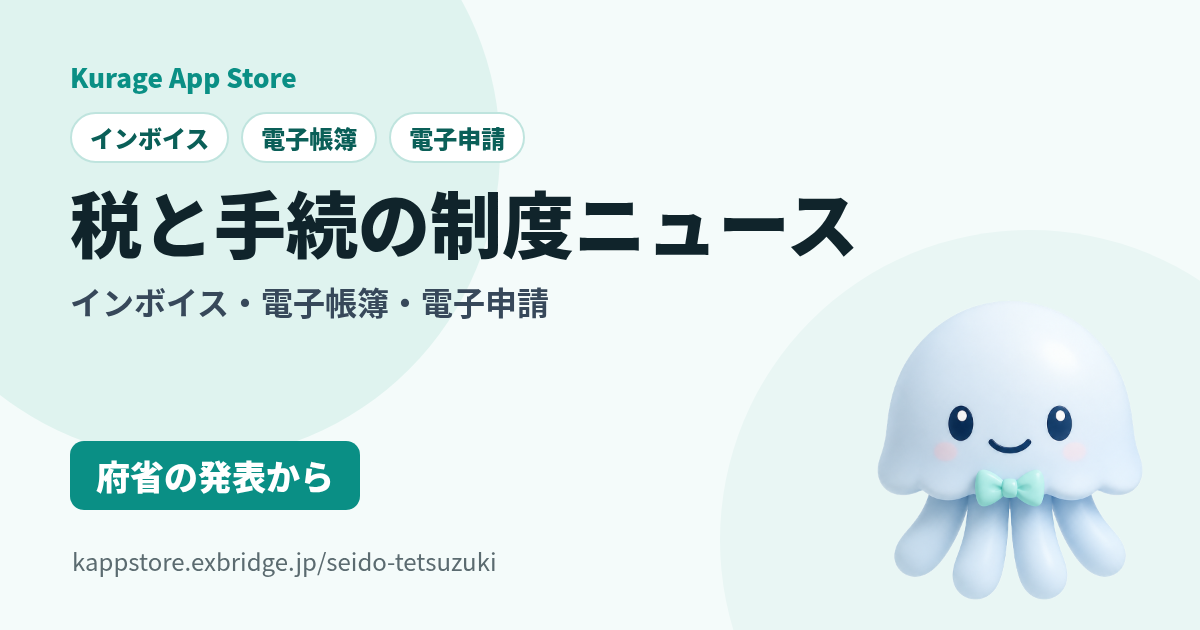
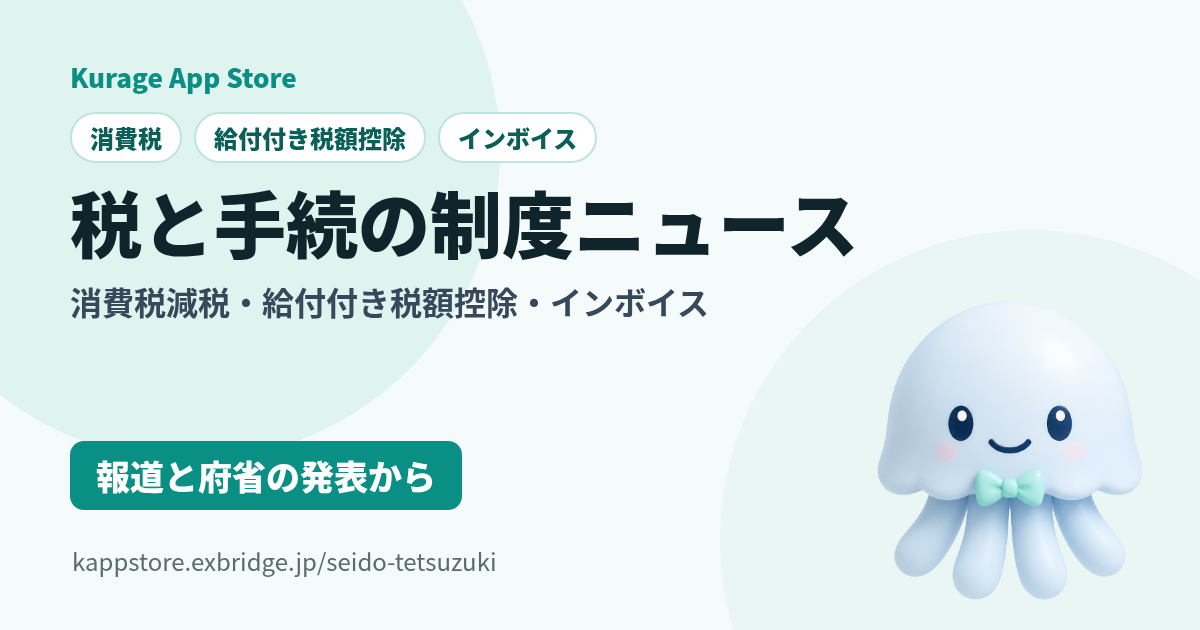
ニュース・制度ニュースに共有ボタン（Xで共有・概要とURLをコピー）、OGP画像に ?v=、労務・税と手続の題名を今のニュースに合わせる

Changed region(s): [[0.0617, 0.1508, 0.4933, 0.2714], [0.0617, 0.4524, 0.5858, 0.5127], [0.0617, 0.6937, 0.4008, 0.8143]]

diff --git a/public/seido.php b/public/seido.php
@@ -13,8 +13,8 @@ kapp_handle_auth_links('seido.php' . ($c !== '' ? '?c=' . rawurlencode($c) : '')
 
 $BASE = 'https://kappstore.exbridge.jp/';
 $CATS = array(
-    'roumu' => array('name' => '労務', 'title' => '労務の制度ニュース｜最低賃金・労働時間・雇用の発表と会社がやること',
-        'lead' => '最低賃金・労働時間・雇用・労働安全衛生など、厚生労働省などの発表のうち会社の労務に関わるものです。',
+    'roumu' => array('name' => '労務', 'title' => '労務の制度ニュース｜最低賃金・年収の壁・労働時間と会社がやること',
+        'lead' => '最低賃金・年収の壁・春闘・育休・労働時間など、会社の労務に関わる報道と、厚生労働省などの発表です。',
         'todo' => array('最低賃金の改定の時期と額を確かめ、時給・月給の最も低い人がそれを下回らないかを見る', '勤怠の記録（出退勤の時刻・残業）を、あとから確かめられる形で残しておく', '指針や公表事案を見て、自社の就業規則・36協定・健康診断の運用と食い違いがないかを確かめる'),
         'apps' => array('0c438fde80e5c346', 'f0f56c6e4da881be', 'b7e010bb0869cbde', 'bb4980bad6219e25')),
     'joho' => array('name' => '情報管理', 'title' => '情報管理の制度ニュース｜不正アクセス・個人情報の注意喚起と会社がやること',
@@ -29,9 +29,9 @@ $CATS = array(
         'lead' => '取適法（旧 下請法）・価格転嫁・取引の適正化についての発表です。',
         'todo' => array('自社が発注側・受注側のどちらで取適法の対象になるかを、資本金と従業員数で確かめる', '発注書（取引条件の明示）・支払期日・手形の扱いが新しい決まりに合っているかを見る', '原材料・人件費の上がった分の価格の交渉を、記録に残る形で行う'),
         'apps' => array('42866a2a798d09eb', '88acc4be142bd444')),
-    'tetsuzuki' => array('name' => '税と手続', 'title' => '税と手続の制度ニュース｜インボイス・電子帳簿・電子申請の発表と会社がやること',
-        'lead' => 'インボイス・電子帳簿保存・電子申請など、会社の税と手続きに関わる発表です。',
-        'todo' => array('請求書・領収書の保存の仕方が、電子帳簿保存法とインボイスの決まりに合っているかを確かめる', '電子申請に要る gBizID などのアカウントを、担当者が変わっても使えるように管理する', '手続きの期限を、制度のカレンダーなどで社内に共有しておく'),
+    'tetsuzuki' => array('name' => '税と手続', 'title' => '税と手続の制度ニュース｜消費税減税・給付付き税額控除・インボイスと会社がやること',
+        'lead' => '消費税減税・給付付き税額控除・インボイス・電子帳簿保存・電子申請など、会社の税と手続きに関わる報道と発表です。',
+        'todo' => array('消費税の税率が変わることが決まったら、レジ・請求書・値札の税率の設定と、切り替える日を確かめる', '請求書・領収書の保存の仕方が、電子帳簿保存法とインボイスの決まりに合っているかを確かめる', '施行日や手続きの期限を、制度のカレンダーなどで社内に共有しておく'),
         'apps' => array('15abb025dc2ee4f6', '5b55bb2c808eead4', 'bb4980bad6219e25')),
 );
 
@@ -92,13 +92,14 @@ $ld = array(
 $ld[] = array('@context' => 'https://schema.org', '@type' => 'FAQPage', 'mainEntity' => array_map(function ($qa) {
     return array('@type' => 'Question', 'name' => $qa[0], 'acceptedAnswer' => array('@type' => 'Answer', 'text' => $qa[1]));
 }, $faq));
-kapp_head($title, $desc, $canonical, false, json_encode($ld, JSON_UNESCAPED_UNICODE | JSON_UNESCAPED_SLASHES), $BASE . 'assets/og/' . $ogslug . '.png');
+kapp_head($title, $desc, $canonical, false, json_encode($ld, JSON_UNESCAPED_UNICODE | JSON_UNESCAPED_SLASHES), $BASE . 'assets/og/' . $ogslug . '.png?v=' . (int)@filemtime(__DIR__ . '/assets/og/' . $ogslug . '.png'));  // 画像を作り直したら URL も変わるように（X は同じ URL のカードを覚えて古いまま出す）
 kapp_header('業務の制度ニュース', $logged_in, $user, $is_seller, $is_admin);
 ?>
 <main class="wrap">
 <section>
   <p style="font-size:12.5px"><a href="index.php">Kurage App Store</a> › <?php echo $c !== '' ? '<a href="seido">業務の制度ニュース</a> › ' . kapp_h($CATS[$c]['name']) : '業務の制度ニュース'; ?></p>
   <h1><?php echo kapp_h($h1); ?></h1>
+  <?php echo kapp_news_share_box('Kurage App Store｜' . $h1, $c !== '' ? $CATS[$c]['lead'] : $desc, $canonical, $c !== '' ? 'seido-' . $c : 'seido'); ?>
   <p style="font-size:15px;line-height:1.85;overflow-wrap:anywhere;margin:0 0 6px"><?php echo kapp_h($answer); ?></p>
   <p class="lead" style="overflow-wrap:anywhere"><?php echo kapp_h($c !== '' ? $CATS[$c]['lead'] : $desc); ?>（更新 <?php echo kapp_h($updated); ?>）</p>
   <p style="display:flex;gap:8px;flex-wrap:wrap">

diff --git a/public/kapp_ui.php b/public/kapp_ui.php
@@ -350,3 +350,28 @@ function kapp_news_app_line(array $ids, array $by, string $ref): string
     if (!$links) { return ''; }
     return '<div style="font-size:12.5px;margin-top:2px">関係する当社のシステム：' . implode('　', $links) . '</div>';
 }
+
+/**
+ * ニュースのページの共有ボタン（Xで共有・概要とURLをコピー）。2026-11-08 ユーザー「Xに投稿しやすいように、blogとかと同じようなボタンつけて」。
+ * 決まり：見出しの直下に置く。文面は【システム名】＋概要＋URL（URLだけにしない）。ref は #ref=（? にすると Google が別URLとして拾う）。
+ * X は全角を2文字と数えるので、URL（23）を除いて280に収まるよう概要を切る。
+ */
+function kapp_news_share_box(string $label, string $summary, string $url, string $kind): string
+{
+    $text = '【' . $label . '】' . $summary;
+    while (mb_strwidth($text, 'UTF-8') + 24 > 280 && mb_strlen($text, 'UTF-8') > 20) {
+        $text = mb_substr($text, 0, mb_strlen($text, 'UTF-8') - 2, 'UTF-8') . '…';
+        $text = preg_replace('/…+…$/u', '…', $text);
+    }
+    $x = 'https://x.com/intent/post?text=' . rawurlencode($text) . '&url=' . rawurlencode($url . '#ref=x-share-kapp-' . $kind);
+    $copy = $text . "\n" . $url . '#ref=copy-kapp-' . $kind;
+    static $js = false;
+    $o = '<div class="kn-share" style="display:flex;flex-wrap:wrap;align-items:center;gap:8px;margin:4px 0 14px">'
+        . '<a href="' . kapp_h($x) . '" target="_blank" rel="noopener" style="display:inline-flex;align-items:center;min-height:38px;padding:7px 16px;border-radius:99px;background:#12202f;color:#fff;font-weight:800;font-size:13px;text-decoration:none">Xで共有</a>'
+        . '<button type="button" class="vb-copy kn-copy" data-copy="' . kapp_h($copy) . '"><span class="vb-copy-label">概要とURLをコピー</span></button></div>';
+    if (!$js) {
+        $js = true;
+        $o .= '<script>document.addEventListener("click",function(e){var b=e.target.closest&&e.target.closest(".kn-copy");if(!b)return;var t=b.getAttribute("data-copy"),l=b.querySelector(".vb-copy-label");function ok(){b.setAttribute("data-done","1");if(l){l.textContent="コピーしました";setTimeout(function(){l.textContent="概要とURLをコピー";b.removeAttribute("data-done")},2500)}}if(navigator.clipboard&&window.isSecureContext){navigator.clipboard.writeText(t).then(ok)}else{var a=document.createElement("textarea");a.value=t;document.body.appendChild(a);a.select();document.execCommand("copy");a.remove();ok()}});</script>';
+    }
+    return $o;
+}

diff --git a/scripts/make_news_ogp.py b/scripts/make_news_ogp.py
@@ -24,11 +24,11 @@ CARDS = [
     ('news-dx', 'DX・クラウドのニュース', 'SaaSとシステムの見直しで確かめること', ['クラウド', 'SaaS', '基幹システム'], '毎日更新'),
     ('news-bousai', '防災のニュース', '地震・大雨・台風のあとに会社が確かめること', ['地震・津波', '大雨・台風', '避難・被災'], '毎日更新'),
     ('seido', '業務の制度ニュース', '報道と府省の発表から、会社がやることを', ['労務', '情報管理', '補助金と支援'], '府省の発表から・毎日更新'),
-    ('seido-roumu', '労務の制度ニュース', '最低賃金・労働時間・雇用の発表', ['最低賃金', '勤怠', '労働安全衛生'], '府省の発表から'),
-    ('seido-joho', '情報管理の制度ニュース', '不正アクセス・個人情報の注意喚起', ['不正アクセス', '個人情報', '注意喚起'], '府省の発表から'),
-    ('seido-shien', '補助金と支援の制度ニュース', '中小企業向けの公募・支援', ['補助金', '助成金', '公募'], '府省の発表から'),
-    ('seido-torihiki', '取引の制度ニュース', '取適法・価格転嫁・取引の適正化', ['取適法', '価格転嫁', '発注書'], '府省の発表から'),
-    ('seido-tetsuzuki', '税と手続の制度ニュース', 'インボイス・電子帳簿・電子申請', ['インボイス', '電子帳簿', '電子申請'], '府省の発表から'),
+    ('seido-roumu', '労務の制度ニュース', '最低賃金・年収の壁・労働時間', ['最低賃金', '年収の壁', '勤怠'], '報道と府省の発表から'),
+    ('seido-joho', '情報管理の制度ニュース', '不正アクセス・個人情報の注意喚起', ['不正アクセス', '個人情報', '注意喚起'], '報道と府省の発表から'),
+    ('seido-shien', '補助金と支援の制度ニュース', '中小企業向けの公募・支援', ['補助金', '助成金', '公募'], '報道と府省の発表から'),
+    ('seido-torihiki', '取引の制度ニュース', '取適法・価格転嫁・取引の適正化', ['取適法', '価格転嫁', '発注書'], '報道と府省の発表から'),
+    ('seido-tetsuzuki', '税と手続の制度ニュース', '消費税減税・給付付き税額控除・インボイス', ['消費税', '給付付き税額控除', 'インボイス'], '報道と府省の発表から'),
 ]
 
 HTML = """<html><head><meta charset="utf-8"><style>

diff --git a/public/news.php b/public/news.php
@@ -128,7 +128,7 @@ $ld = array(
 $ld[] = array('@context' => 'https://schema.org', '@type' => 'FAQPage', 'mainEntity' => array_map(function ($qa) {
     return array('@type' => 'Question', 'name' => $qa[0], 'acceptedAnswer' => array('@type' => 'Answer', 'text' => $qa[1]));
 }, $faq));
-kapp_head($title, $desc, $canonical, false, json_encode($ld, JSON_UNESCAPED_UNICODE | JSON_UNESCAPED_SLASHES), $BASE . 'assets/og/' . $ogslug . '.png');
+kapp_head($title, $desc, $canonical, false, json_encode($ld, JSON_UNESCAPED_UNICODE | JSON_UNESCAPED_SLASHES), $BASE . 'assets/og/' . $ogslug . '.png?v=' . (int)@filemtime(__DIR__ . '/assets/og/' . $ogslug . '.png'));  // 画像を作り直したら URL も変わるように（X は同じ URL のカードを覚えて古いまま出す）
 kapp_header('AI・IT・DX・防災ニュース', $logged_in, $user, $is_seller, $is_admin);
 
 function kn_topic_label($k, $TOPICS) { return isset($TOPICS[$k]) ? $TOPICS[$k]['name'] : $k; }
@@ -148,6 +148,7 @@ function kn_app_cards($ids, $by, $ref) {
 <section>
   <p style="font-size:12.5px"><a href="index.php">Kurage App Store</a> › <?php echo $crumb !== '' ? '<a href="news">AI・IT・DX・防災ニュース</a> › ' . kapp_h($crumb) : 'AI・IT・DX・防災ニュース'; ?></p>
   <h1><?php echo kapp_h($h1); ?></h1>
+  <?php echo kapp_news_share_box('Kurage App Store｜' . $h1, $t !== '' ? $TOPICS[$t]['lead'] : $desc, $canonical, $t !== '' ? 'news-' . $t : ($d !== '' ? 'news-day' : 'news')); ?>
   <?php if ($d === ''): ?><p style="font-size:15px;line-height:1.85;overflow-wrap:anywhere;margin:0 0 6px"><?php echo kapp_h($answer); ?></p><?php endif; ?>
   <p class="lead" style="overflow-wrap:anywhere"><?php echo kapp_h($t !== '' ? $TOPICS[$t]['lead'] : $desc); ?>（更新 <?php echo kapp_h($updated); ?>）</p>
   <p style="display:flex;gap:8px;flex-wrap:wrap">
